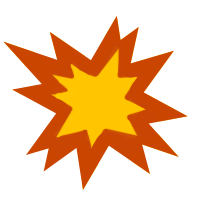
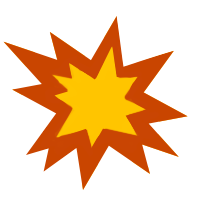
Collision view animates and everything, but it consistently blacks out the sprite after 4 resets.

diff --git a/my-solar-system/src/js/views/collision.js b/my-solar-system/src/js/views/collision.js
@@ -21,12 +21,15 @@ define(function(require) {
         initGraphics: function() {
             var explosionSprite = Assets.createSprite(Assets.Images.EXPLOSION);
             explosionSprite.anchor.x = explosionSprite.anchor.y = 0.5;
+            explosionSprite.rotation = Math.PI * 2 * Math.random();
+
             this.explosionSprite = explosionSprite;
             this.imageWidth = explosionSprite.width;
 
-            this.displayObject.addChild(explosionSprite);
-
+            this.animate(0);
             this.updateMVT(this.mvt);
+
+            this.displayObject.addChild(explosionSprite);
         },
 
         updateMVT: function(mvt) {
@@ -36,7 +39,7 @@ define(function(require) {
             this.displayObject.x = viewPosition.x;
             this.displayObject.y = viewPosition.y;
 
-            var targetSpriteWidth = this.mvt.modelToViewDeltaX(CollisionView.END_COLLISION_DIAMETER);
+            var targetSpriteWidth = this.mvt.modelToViewDeltaX(CollisionView.DIAMETER_RANGE.max);
             var scale = targetSpriteWidth / this.imageWidth;
             this.displayObject.scale.x = scale;
             this.displayObject.scale.y = scale;
@@ -48,12 +51,42 @@ define(function(require) {
 
             if (this.time === undefined)
                 this.time = 0;
-            else {
+            else
                 this.time += deltaTime;
 
-                if (this.time > 2)
-                    this.animationFinished = true;
-            }
+            this.animate(this.time);
+
+            if (this.time > CollisionView.ANIMATION_DURATION)
+                this.animationFinished = true;
+        },
+
+        animate: function(time) {
+            var lerpValue;
+            var percentTimeElapsed = time / CollisionView.ANIMATION_DURATION;
+
+            // Animate scale
+            if (percentTimeElapsed < CollisionView.ANIMATION_MIDPOINT)
+                lerpValue = percentTimeElapsed / CollisionView.ANIMATION_MIDPOINT;
+            else
+                lerpValue = 1 - ((percentTimeElapsed - CollisionView.ANIMATION_MIDPOINT) / (1 - CollisionView.ANIMATION_MIDPOINT));
+
+            var targetDiameter = CollisionView.DIAMETER_RANGE.lerp(lerpValue);
+            var scale = targetDiameter / CollisionView.DIAMETER_RANGE.max;
+
+            // Animate alpha
+            var alpha;
+            if (percentTimeElapsed < CollisionView.ANIMATION_MIDPOINT)
+                alpha = 1;
+            else
+                alpha = lerpValue;
+
+            // Animate rotation
+            //var rotation = CollisionView.ANIMATION_ROTATION * percentTimeElapsed;
+
+            this.explosionSprite.scale.x = scale;
+            this.explosionSprite.scale.y = scale;
+            this.explosionSprite.alpha = alpha;
+            //this.explosionSprite.rotation = rotation;
         },
 
         finished: function() {

diff --git a/my-solar-system/src/js/constants.js b/my-solar-system/src/js/constants.js
@@ -2,6 +2,7 @@ define(function (require) {
 
     'use strict';
 
+    var range = require('common/math/range');
 
     var Constants = {}; 
 
@@ -47,10 +48,10 @@ define(function (require) {
 
     var CollisionView = {};
 
-    CollisionView.START_COLLISION_DIAMETER = 40; // Simulation units
-    CollisionView.END_COLLISION_DIAMETER   = 60; // Simulation units
-
-    CollisionView.ANIMATION_DURATION = 2; // Seconds
+    CollisionView.DIAMETER_RANGE = range({ min: 40, max: 60 }); // Simulation units
+    CollisionView.ANIMATION_DURATION = 1; // Seconds
+    CollisionView.ANIMATION_MIDPOINT = 0.65;
+    CollisionView.ANIMATION_ROTATION = Math.PI / 2;
 
     Constants.CollisionView = CollisionView;
 

diff --git a/my-solar-system/src/js/models/simulation.js b/my-solar-system/src/js/models/simulation.js
@@ -67,11 +67,9 @@ define(function (require, exports, module) {
         },
 
         reset: function() {
-            for (var i = 0; i < this.get('numBodies'); i++){
-                this.bodies[i].mass = this.bodies[i].initMass;
-                this.bodies[i].pos  = this.bodies[i].initPos.clone();
-                this.bodies[i].vel  = this.bodies[i].initVel.clone();
-            }
+            for (var i = 0; i < this.get('numBodies'); i++)
+                this.bodies[i].reset();
+            
             this.maxAccel = 0;
             this.time = 0;
             this.cmMotionRemoved = false;

diff --git a/my-solar-system/src/js/models/body.js b/my-solar-system/src/js/models/body.js
@@ -60,6 +60,13 @@ define(function (require) {
             this.pos.set(3000, 0);
             this.vel.set(10, 0);
             this.set('destroyedInCollision', true);
+        },
+
+        reset: function() {
+            this.mass = this.initMass;
+            this.pos  = this.initPos.clone();
+            this.vel  = this.initVel.clone();
+            this.set('destroyedInCollision', false);
         }
 
     });
